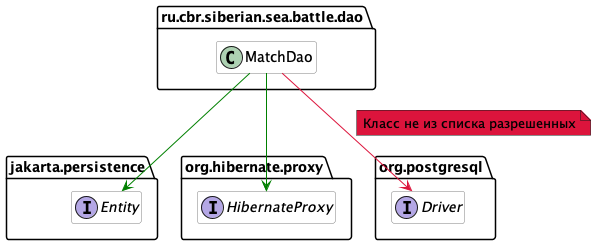
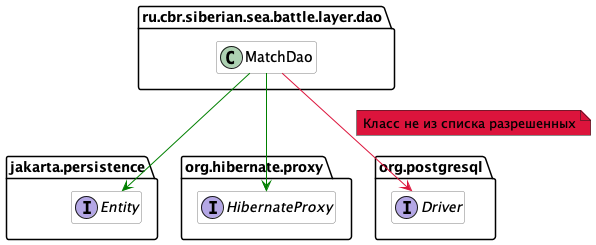
Добавление документации

Changed region(s): [[0.2114, 0.0, 0.6644, 0.3714]]

diff --git a/component/layer/src/main/plantuml/diagrams-layer.md b/component/layer/src/main/plantuml/diagrams-layer.md
@@ -410,7 +410,7 @@ BackgroundColor #white
 
 
 
-package ru.cbr.siberian.sea.battle.dao {
+package ru.cbr.siberian.sea.battle.layer.dao {
 class MatchDao
 }
 
